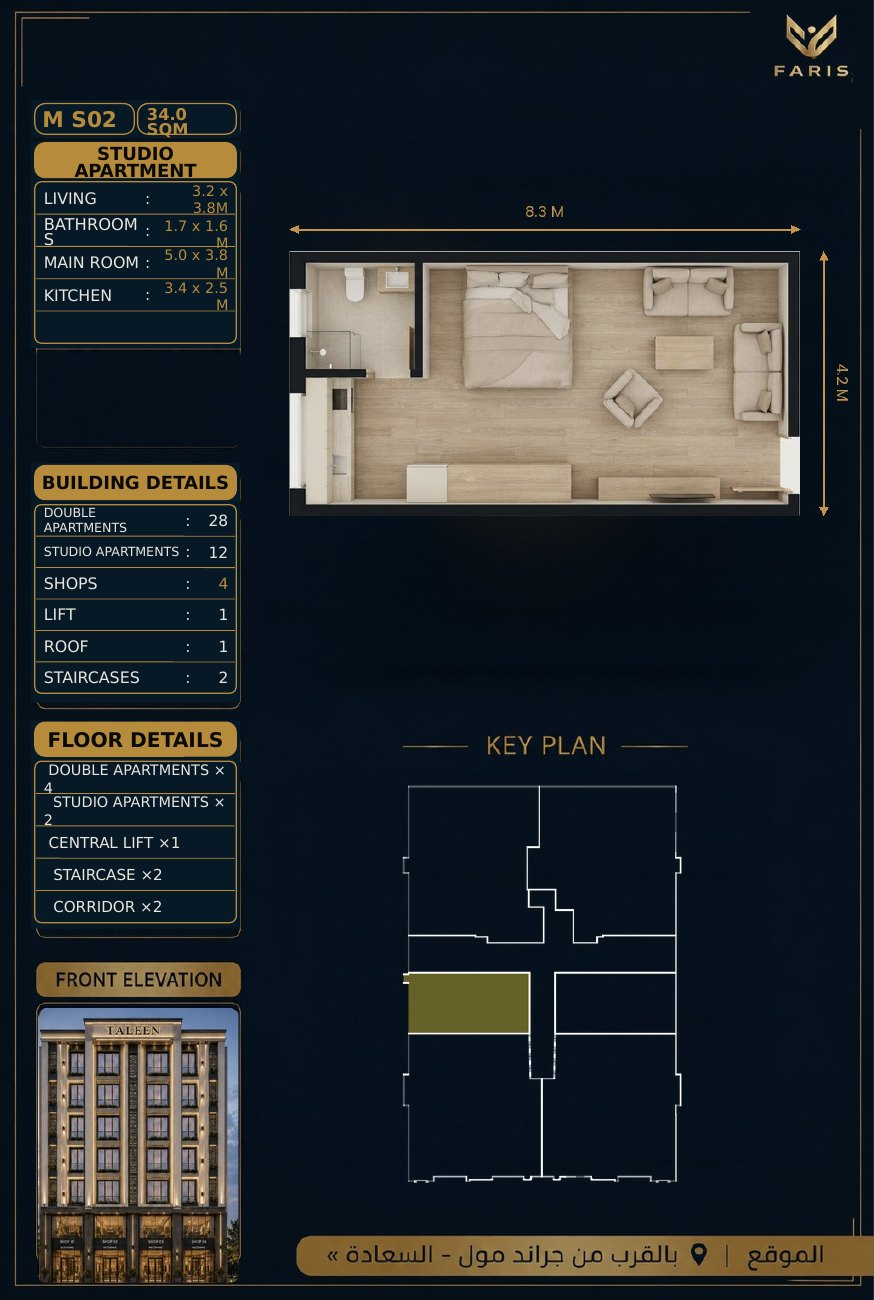
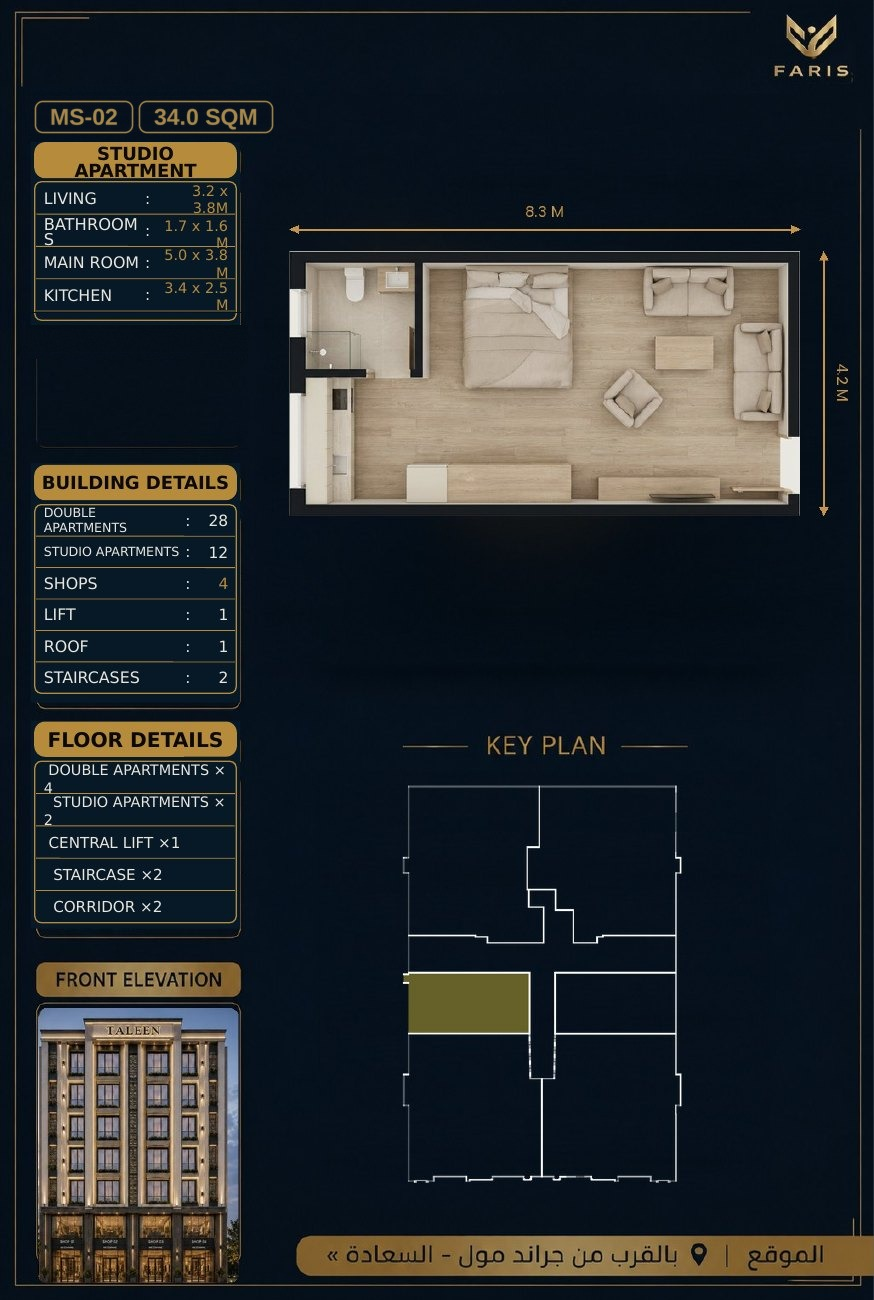
Repair the unit-page scan defects: header pills, studio tables, kitchen typo
Every unit page's header carried the area in a pill too small for its text:
'34.0 SQM' and '86 SQM' overflowed the border and clipped against the title
ribbon below. All 30 headers are rebuilt uniformly -- the spill erased up to
the ribbon edge, both pills redrawn (rounded border supersampled 4x, label
at the measured 16px cap height, ink sampled from each page's own glyphs),
codes normalised to the price list's hyphenated form (MS-01, 4S-02), areas
to one decimal (74.0 SQM).

Studio pages dragged an empty bordered tail below the KITCHEN row -- the
details box sized for the doubles' eight rows but holding four. The tail is
erased and the box's own bottom border strip re-anchored just under the
KITCHEN separator, so the table closes where its content ends.

Studio kitchens on the S-01 pages read '1.9 x 20 M' -- a 20-metre kitchen.
p12 alone had it right, so its '1.9 x 2.0' block is grafted onto p06, p18,
p24 and p30 at the shared row position (separators sit at y=311 on every
studio page). The S-02 pages keep their own correct 3.4 x 2.5.

Claude-Session: https://claude.ai/code/session_01JZ6oNYGnKfrNhumKdfTr91

Changed region(s): [[0.0309, 0.0615, 0.3089, 0.1231], [0.0309, 0.2462, 0.278, 0.2769]]

diff --git a/index.html b/index.html
@@ -72,12 +72,16 @@ body::before{content:"";position:fixed;inset:0;pointer-events:none;opacity:.5;
    while a chip jump snaps across many sheets at once */
 .sheet.no-anim{transition:none}
 .sheet.flipped{transform:rotateY(180deg)}
-/* No blanket will-change/translateZ here: promoting all ~108 faces to GPU
-   layers at retina resolution is hundreds of MB and crashes the tab on iOS
-   ("A problem repeatedly occurred"). Only the turning sheet gets promoted. */
+/* Two iOS constraints pull against each other here. Promoting all ~108 faces
+   to GPU layers crashes the tab on memory ("A problem repeatedly occurred"),
+   but WebKit only honors backface-visibility reliably on composited faces —
+   uncomposited, the front face of a flipped sheet bleeds through mirrored.
+   So promotion follows the reader: only sheets near the current spread
+   (.near, set from hydrate()) get composited — ~18 layers, both fixes. */
 .face{position:absolute;inset:0;backface-visibility:hidden;-webkit-backface-visibility:hidden;
   background:#f7f3ea}
-.sheet.turning .face{will-change:transform}
+.sheet.near .face.front{transform:translateZ(0);will-change:transform}
+.sheet.near .face.back{transform:rotateY(180deg) translateZ(0);will-change:transform}
 /* sheets buried deep in either stack are invisible anyway — skip painting them */
 .sheet.offstage{visibility:hidden}
 .face>*{backface-visibility:hidden;-webkit-backface-visibility:hidden}

diff --git a/book.js b/book.js
@@ -242,6 +242,7 @@ function hydrate(){
   sheets.forEach((s,i)=>{
     s.classList.toggle('offstage', i < flipped-3 || i > flipped+3);
     const near = i >= flipped-NEAR && i <= flipped+NEAR;
+    s.classList.toggle('near', near);        // composited: see the CSS note on iOS backfaces
     const far  = i <  flipped-FAR  || i >  flipped+FAR;
     s.querySelectorAll('img[data-src]').forEach(img=>{
       if (near){ if (!img.getAttribute('src')) img.src = img.dataset.src; }
